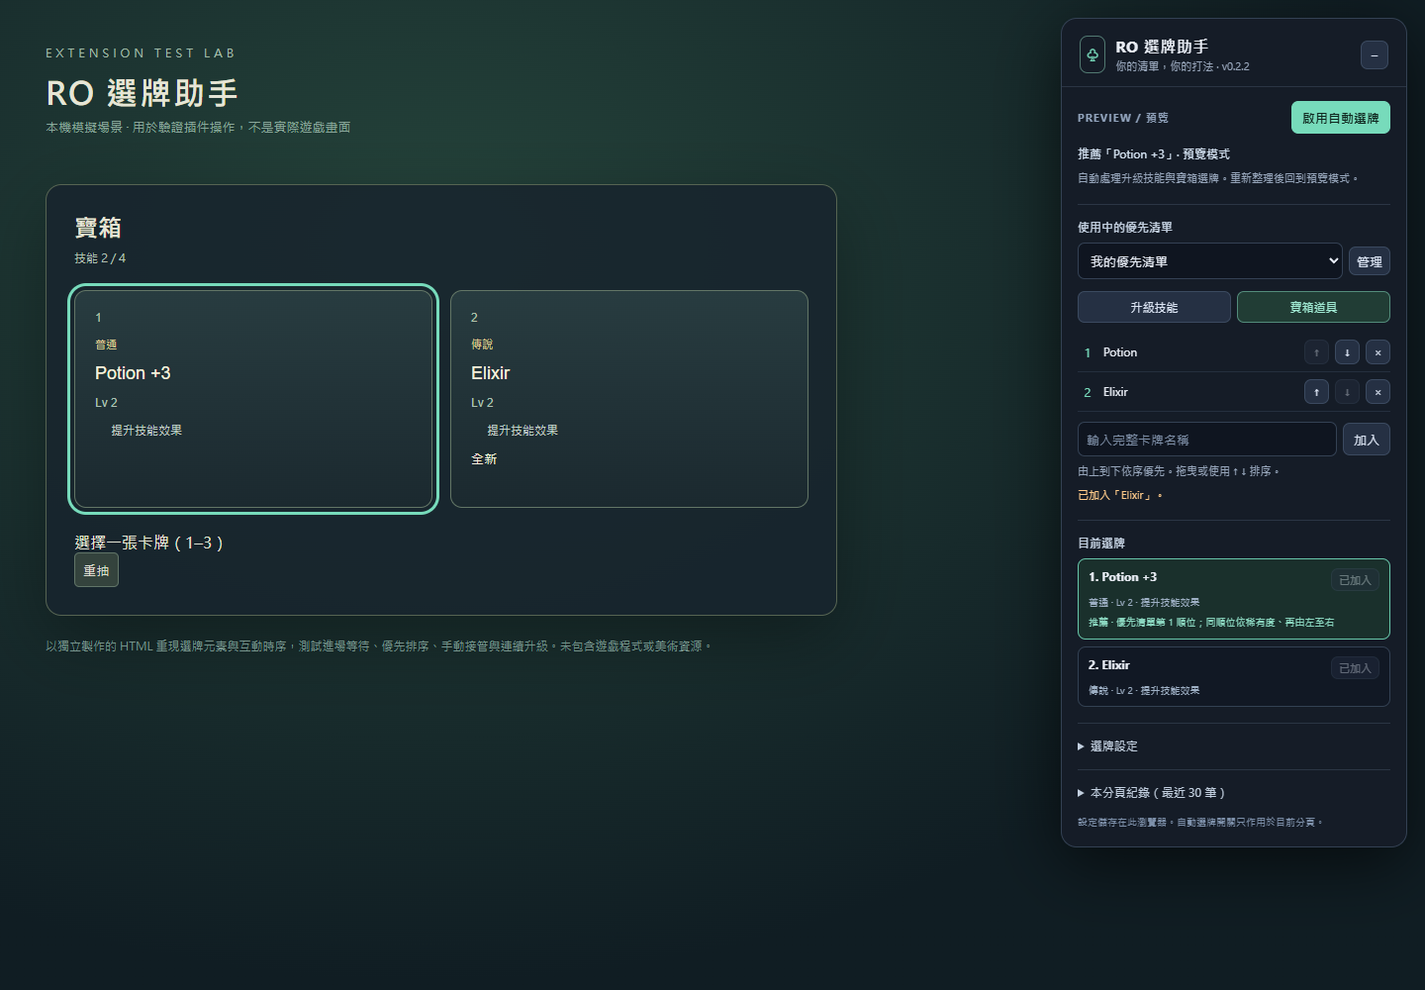
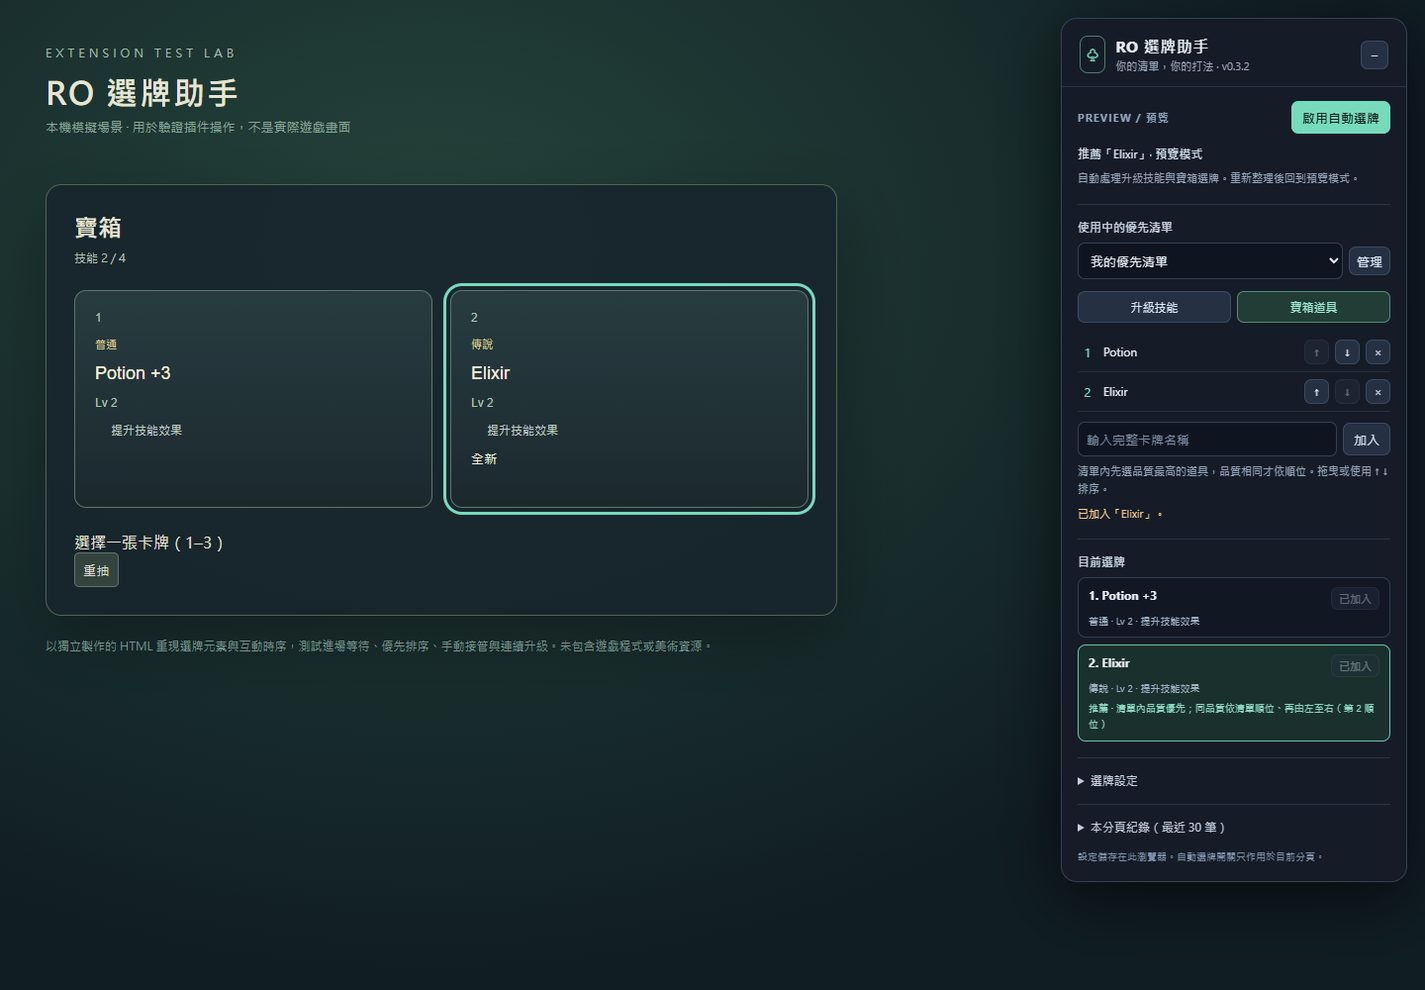
Prefer higher quality among configured chest items

diff --git a/dist/content.js b/dist/content.js
@@ -69,7 +69,7 @@
       const result = decide(candidates.map((c) => c.card), rules.targets, settings.fallback);
       return { ...result, index: result.index === null ? null : candidates[result.index].index };
     }
-    if (snapshot.kind === "chest") return decide(snapshot.cards.map((c) => ({ ...c, name: priorityName(c.name, "chest") })), profile.chestPriorities, settings.chestFallback);
+    if (snapshot.kind === "chest") return decide(snapshot.cards.map((c) => ({ ...c, name: priorityName(c.name, "chest") })), profile.chestPriorities, settings.chestFallback, "rarity");
     return { index: null, reason: "\u50C5\u8655\u7406\u5347\u7D1A\u6280\u80FD\u8207\u5BF6\u7BB1\u9053\u5177\u9078\u724C" };
   }
   function skillRules(settings) {
@@ -96,14 +96,18 @@
     if (rerollEnabled && targets.length > 0 && !matched && usable(snapshot.reroll)) return { kind: "reroll", cardIndex: null, action: snapshot.reroll, description: `\u5168\u90E8\u91CD\u62BD\uFF08\u5269\u9918 ${snapshot.reroll.left} \u6B21\uFF09` };
     return null;
   }
-  function decide(cards, priorities, fallback) {
+  function decide(cards, priorities, fallback, orderBy = "priority") {
     if (!cards.length) return { index: null, reason: "\u7B49\u5F85\u5361\u724C\u8F09\u5165" };
     const order = new Map(priorities.map((name, index) => [normalizeName(name), index]));
     const matched = cards.map((card, index) => ({ index, rank: order.get(normalizeName(card.name)), rarity: card.rarity })).filter((c) => c.rank !== void 0);
     if (matched.length) {
-      matched.sort((a, b) => a.rank - b.rank || (b.rarity ?? -1) - (a.rarity ?? -1) || a.index - b.index);
+      matched.sort((a, b) => {
+        const byPriority = a.rank - b.rank;
+        const byRarity = (b.rarity ?? -1) - (a.rarity ?? -1);
+        return (orderBy === "rarity" ? byRarity || byPriority : byPriority || byRarity) || a.index - b.index;
+      });
       const winner = matched[0];
-      return { index: winner.index, reason: `\u512A\u5148\u6E05\u55AE\u7B2C ${winner.rank + 1} \u9806\u4F4D\uFF1B\u540C\u9806\u4F4D\u4F9D\u7A00\u6709\u5EA6\u3001\u518D\u7531\u5DE6\u81F3\u53F3` };
+      return { index: winner.index, reason: orderBy === "rarity" ? `\u6E05\u55AE\u5167\u54C1\u8CEA\u512A\u5148\uFF1B\u540C\u54C1\u8CEA\u4F9D\u6E05\u55AE\u9806\u4F4D\u3001\u518D\u7531\u5DE6\u81F3\u53F3\uFF08\u7B2C ${winner.rank + 1} \u9806\u4F4D\uFF09` : `\u512A\u5148\u6E05\u55AE\u7B2C ${winner.rank + 1} \u9806\u4F4D\uFF1B\u540C\u9806\u4F4D\u4F9D\u7A00\u6709\u5EA6\u3001\u518D\u7531\u5DE6\u81F3\u53F3` };
     }
     if (fallback === "rarity" && cards.every((c) => c.rarity !== null)) {
       const index = cards.reduce((best, c, i) => c.rarity > cards[best].rarity ? i : best, 0);
@@ -499,7 +503,7 @@
 .panel,.launcher { pointer-events:auto; }</style>
       <button class="launcher" id="launcher" aria-label="\u958B\u555F RO \u9078\u724C\u52A9\u624B">\u2667 \u9078\u724C\u52A9\u624B</button>
       <section class="panel" id="panel" aria-label="RO \u9078\u724C\u52A9\u624B" hidden>
-        <header><span class="logo" aria-hidden="true">\u2667</span><div><strong>RO \u9078\u724C\u52A9\u624B</strong><small>\u4F60\u7684\u6E05\u55AE\uFF0C\u4F60\u7684\u6253\u6CD5 \xB7 v0.3.1</small></div><button class="icon" id="collapse" aria-label="\u6536\u5408\u9762\u677F">\u2212</button></header>
+        <header><span class="logo" aria-hidden="true">\u2667</span><div><strong>RO \u9078\u724C\u52A9\u624B</strong><small>\u4F60\u7684\u6E05\u55AE\uFF0C\u4F60\u7684\u6253\u6CD5 \xB7 v0.3.2</small></div><button class="icon" id="collapse" aria-label="\u6536\u5408\u9762\u677F">\u2212</button></header>
         <div class="body">
           <div class="toolbar"><span class="mode" id="mode">PREVIEW / \u9810\u89BD</span><button id="toggle" class="primary">\u555F\u7528\u81EA\u52D5\u9078\u724C</button></div>
           <p class="status" id="status" role="status" aria-live="polite"></p>
@@ -516,7 +520,7 @@
             <ol id="priorities" aria-label="\u5361\u724C\u512A\u5148\u9806\u5E8F"></ol>
             <div class="empty" id="empty-priorities">\u9084\u6C92\u6709\u512A\u5148\u5361\u724C\u3002\u8F38\u5165\u904A\u6232\u986F\u793A\u7684\u540D\u7A31\uFF0C\u6216\u5F9E\u4E0B\u65B9\u76EE\u524D\u9078\u724C\u52A0\u5165\u3002</div>
             <form id="add-form" class="row"><input id="card-name" placeholder="\u8F38\u5165\u5B8C\u6574\u5361\u724C\u540D\u7A31" maxlength="120" aria-label="\u5361\u724C\u540D\u7A31" autocomplete="off"><button type="submit">\u52A0\u5165</button></form>
-            <div class="note" style="margin-top:6px">\u7531\u4E0A\u5230\u4E0B\u4F9D\u5E8F\u512A\u5148\u3002\u62D6\u66F3\u6216\u4F7F\u7528 \u2191 \u2193 \u6392\u5E8F\u3002</div>
+            <div class="note" id="priority-help" style="margin-top:6px"></div>
             <div class="message" id="message" role="status"></div>
           </div>
           <div class="section"><span class="label">\u76EE\u524D\u9078\u724C</span><div id="current" class="current"><div class="empty">\u5347\u7D1A\u6216\u5BF6\u7BB1\u9078\u724C\u51FA\u73FE\u5F8C\uFF0C\u6703\u5728\u9019\u88E1\u986F\u793A\u3002</div></div></div>
@@ -532,11 +536,11 @@
             <label class="note" for="chest-fallback">\u5BF6\u7BB1\u6E05\u55AE\u6C92\u6709\u547D\u4E2D\u6642</label>
             <select id="chest-fallback"><option value="pause">\u4EA4\u7531\u6211\u624B\u52D5\u9078\u64C7</option><option value="rarity">\u9078\u6700\u9AD8\u7A00\u6709\u5EA6\uFF08\u5FC5\u9808\u5168\u90E8\u8FA8\u8B58\u6210\u529F\uFF09</option></select>
             <label class="checkbox-row"><input id="chest-replace" type="checkbox">\u5BF6\u7BB1\u81EA\u52D5\u78BA\u8A8D\u66FF\u63DB</label>
-            <p class="note">\u4F9D\u5019\u9078\u724C\u9806\u4F4D\u9078\u64C7\uFF1B\u52FE\u9078\u5F8C\u6703\u78BA\u8A8D\u66FF\u63DB\u8A72\u6B04\u4F4D\u539F\u6709\u9053\u5177\u3002\u95DC\u9589\u5F8C\uFF0C\u9700\u66FF\u63DB\u7684\u724C\u4EA4\u7531\u4F60\u8655\u7406\u3002</p>
+            <p class="note">\u6E05\u55AE\u5167\u5019\u9078\u724C\u5148\u6BD4\u54C1\u8CEA\uFF0C\u540C\u54C1\u8CEA\u518D\u6BD4\u9806\u4F4D\uFF1B\u52FE\u9078\u5F8C\u6703\u78BA\u8A8D\u66FF\u63DB\u8A72\u6B04\u4F4D\u539F\u6709\u9053\u5177\u3002\u95DC\u9589\u5F8C\uFF0C\u9700\u66FF\u63DB\u7684\u724C\u4EA4\u7531\u4F60\u8655\u7406\u3002</p>
             <div class="note" style="margin-top:12px">\u6BCF\u8F2A\u96A8\u6A5F\u9078\u724C\u5EF6\u9072\uFF08\u6BEB\u79D2\uFF09</div>
             <div class="row delay-range"><label for="delay-min">\u6700\u77ED<input id="delay-min" type="number" min="500" max="5000" step="100"></label><span>\uFF5E</span><label for="delay-max">\u6700\u9577<input id="delay-max" type="number" min="500" max="5000" step="100"></label></div>
             <p class="note">\u9810\u8A2D 500\uFF5E1500 \u6BEB\u79D2\uFF0C\u6BCF\u8F2A\u91CD\u65B0\u62BD\u53D6\u4E00\u6B21\u3002\u82E5\u904A\u6232\u52D5\u756B\u5C1A\u672A\u7D50\u675F\uFF0C\u6703\u7B49\u5230\u53EF\u64CD\u4F5C\u6642\u624D\u9EDE\u9078\u3002</p>
-            <p class="note">\u4ECD\u6703\u7B49\u5F85\u904A\u6232\u9032\u5834\u52D5\u756B\u3002\u540C\u9806\u4F4D\u5148\u6BD4\u8F03\u7A00\u6709\u5EA6\uFF0C\u518D\u7531\u5DE6\u81F3\u53F3\u3002\u5BF6\u7BB1\u540D\u7A31\u6703\u5FFD\u7565\u7D50\u5C3E\u7684 +1\u3001+2 \u7B49\u5F37\u5316\u6578\u5B57\uFF1B\u5207\u63DB\u8A9E\u8A00\u5F8C\u8ACB\u78BA\u8A8D\u6E05\u55AE\u3002</p>
+            <p class="note">\u6280\u80FD\u5148\u6BD4\u9806\u4F4D\uFF0C\u518D\u6BD4\u7A00\u6709\u5EA6\uFF1B\u5BF6\u7BB1\u6E05\u55AE\u5167\u5148\u6BD4\u54C1\u8CEA\uFF08\u7A00\u6709\u5EA6\uFF09\uFF0C\u518D\u6BD4\u9806\u4F4D\u3002\u7686\u76F8\u540C\u6642\u7531\u5DE6\u81F3\u53F3\u3002\u5BF6\u7BB1\u540D\u7A31\u6703\u5FFD\u7565\u7D50\u5C3E\u7684 +1\u3001+2 \u7B49\u5F37\u5316\u6578\u5B57\uFF1B\u5207\u63DB\u8A9E\u8A00\u5F8C\u8ACB\u78BA\u8A8D\u6E05\u55AE\u3002</p>
           </details>
           <details class="section"><summary>\u672C\u5206\u9801\u7D00\u9304\uFF08\u6700\u8FD1 30 \u7B46\uFF09</summary><div id="logs" class="log"></div><button id="clear-logs">\u6E05\u9664\u7D00\u9304</button></details>
           <footer>\u8A2D\u5B9A\u5132\u5B58\u5728\u6B64\u700F\u89BD\u5668\u3002\u81EA\u52D5\u9078\u724C\u958B\u95DC\u53EA\u4F5C\u7528\u65BC\u76EE\u524D\u5206\u9801\u3002</footer>
@@ -717,6 +721,7 @@
       this.input("delay-min").value = String(this.settings.delayMinMs);
       this.input("delay-max").value = String(this.settings.delayMaxMs);
       for (const kind of ["levelup", "chest"]) this.el(`kind-${kind}`).setAttribute("aria-pressed", String(kind === this.editingKind));
+      this.el("priority-help").textContent = this.editingKind === "chest" ? "\u6E05\u55AE\u5167\u5148\u9078\u54C1\u8CEA\u6700\u9AD8\u7684\u9053\u5177\uFF0C\u54C1\u8CEA\u76F8\u540C\u624D\u4F9D\u9806\u4F4D\u3002\u62D6\u66F3\u6216\u4F7F\u7528 \u2191 \u2193 \u6392\u5E8F\u3002" : "\u7531\u4E0A\u5230\u4E0B\u4F9D\u5E8F\u512A\u5148\u3002\u62D6\u66F3\u6216\u4F7F\u7528 \u2191 \u2193 \u6392\u5E8F\u3002";
       this.el("empty-priorities").textContent = this.editingKind === "chest" ? "\u5C1A\u672A\u8A2D\u5B9A\u5BF6\u7BB1\u9806\u4F4D\u3002\u53EF\u5F9E\u76EE\u524D\u5BF6\u7BB1\u52A0\u5165\uFF0C\u6216\u5728\u9078\u724C\u8A2D\u5B9A\u6539\u7528\u6700\u9AD8\u7A00\u6709\u5EA6\u3002" : "\u9084\u6C92\u6709\u512A\u5148\u6280\u80FD\u3002\u8F38\u5165\u904A\u6232\u986F\u793A\u7684\u540D\u7A31\uFF0C\u6216\u5F9E\u4E0B\u65B9\u76EE\u524D\u9078\u724C\u52A0\u5165\u3002";
       const names = this.names();
       this.el("empty-priorities").hidden = names.length > 0;

diff --git a/src/panel.ts b/src/panel.ts
@@ -27,7 +27,7 @@ export class Panel {
       <style>${styles}\n.panel,.launcher { pointer-events:auto; }</style>
       <button class="launcher" id="launcher" aria-label="開啟 RO 選牌助手">♧ 選牌助手</button>
       <section class="panel" id="panel" aria-label="RO 選牌助手" hidden>
-        <header><span class="logo" aria-hidden="true">♧</span><div><strong>RO 選牌助手</strong><small>你的清單，你的打法 · v0.3.1</small></div><button class="icon" id="collapse" aria-label="收合面板">−</button></header>
+        <header><span class="logo" aria-hidden="true">♧</span><div><strong>RO 選牌助手</strong><small>你的清單，你的打法 · v0.3.2</small></div><button class="icon" id="collapse" aria-label="收合面板">−</button></header>
         <div class="body">
           <div class="toolbar"><span class="mode" id="mode">PREVIEW / 預覽</span><button id="toggle" class="primary">啟用自動選牌</button></div>
           <p class="status" id="status" role="status" aria-live="polite"></p>
@@ -44,7 +44,7 @@ export class Panel {
             <ol id="priorities" aria-label="卡牌優先順序"></ol>
             <div class="empty" id="empty-priorities">還沒有優先卡牌。輸入遊戲顯示的名稱，或從下方目前選牌加入。</div>
             <form id="add-form" class="row"><input id="card-name" placeholder="輸入完整卡牌名稱" maxlength="120" aria-label="卡牌名稱" autocomplete="off"><button type="submit">加入</button></form>
-            <div class="note" style="margin-top:6px">由上到下依序優先。拖曳或使用 ↑ ↓ 排序。</div>
+            <div class="note" id="priority-help" style="margin-top:6px"></div>
             <div class="message" id="message" role="status"></div>
           </div>
           <div class="section"><span class="label">目前選牌</span><div id="current" class="current"><div class="empty">升級或寶箱選牌出現後，會在這裡顯示。</div></div></div>
@@ -60,11 +60,11 @@ export class Panel {
             <label class="note" for="chest-fallback">寶箱清單沒有命中時</label>
             <select id="chest-fallback"><option value="pause">交由我手動選擇</option><option value="rarity">選最高稀有度（必須全部辨識成功）</option></select>
             <label class="checkbox-row"><input id="chest-replace" type="checkbox">寶箱自動確認替換</label>
-            <p class="note">依候選牌順位選擇；勾選後會確認替換該欄位原有道具。關閉後，需替換的牌交由你處理。</p>
+            <p class="note">清單內候選牌先比品質，同品質再比順位；勾選後會確認替換該欄位原有道具。關閉後，需替換的牌交由你處理。</p>
             <div class="note" style="margin-top:12px">每輪隨機選牌延遲（毫秒）</div>
             <div class="row delay-range"><label for="delay-min">最短<input id="delay-min" type="number" min="500" max="5000" step="100"></label><span>～</span><label for="delay-max">最長<input id="delay-max" type="number" min="500" max="5000" step="100"></label></div>
             <p class="note">預設 500～1500 毫秒，每輪重新抽取一次。若遊戲動畫尚未結束，會等到可操作時才點選。</p>
-            <p class="note">仍會等待遊戲進場動畫。同順位先比較稀有度，再由左至右。寶箱名稱會忽略結尾的 +1、+2 等強化數字；切換語言後請確認清單。</p>
+            <p class="note">技能先比順位，再比稀有度；寶箱清單內先比品質（稀有度），再比順位。皆相同時由左至右。寶箱名稱會忽略結尾的 +1、+2 等強化數字；切換語言後請確認清單。</p>
           </details>
           <details class="section"><summary>本分頁紀錄（最近 30 筆）</summary><div id="logs" class="log"></div><button id="clear-logs">清除紀錄</button></details>
           <footer>設定儲存在此瀏覽器。自動選牌開關只作用於目前分頁。</footer>
@@ -171,6 +171,9 @@ export class Panel {
     this.input('delay-min').value = String(this.settings.delayMinMs);
     this.input('delay-max').value = String(this.settings.delayMaxMs);
     for (const kind of ['levelup', 'chest'] as const) this.el(`kind-${kind}`).setAttribute('aria-pressed', String(kind === this.editingKind));
+    this.el('priority-help').textContent = this.editingKind === 'chest'
+      ? '清單內先選品質最高的道具，品質相同才依順位。拖曳或使用 ↑ ↓ 排序。'
+      : '由上到下依序優先。拖曳或使用 ↑ ↓ 排序。';
     this.el('empty-priorities').textContent = this.editingKind === 'chest' ? '尚未設定寶箱順位。可從目前寶箱加入，或在選牌設定改用最高稀有度。' : '還沒有優先技能。輸入遊戲顯示的名稱，或從下方目前選牌加入。';
     const names = this.names();
     this.el('empty-priorities').hidden = names.length > 0;

diff --git a/src/core.ts b/src/core.ts
@@ -58,7 +58,7 @@ export function decideSnapshot(snapshot: Pick<Snapshot, 'kind'> & { cards: Pick<
     const result = decide(candidates.map(c => c.card), rules.targets, settings.fallback);
     return { ...result, index: result.index === null ? null : candidates[result.index].index };
   }
-  if (snapshot.kind === 'chest') return decide(snapshot.cards.map(c => ({ ...c, name: priorityName(c.name, 'chest') })), profile.chestPriorities, settings.chestFallback);
+  if (snapshot.kind === 'chest') return decide(snapshot.cards.map(c => ({ ...c, name: priorityName(c.name, 'chest') })), profile.chestPriorities, settings.chestFallback, 'rarity');
   return { index: null, reason: '僅處理升級技能與寶箱道具選牌' };
 }
 export function skillRules(settings: Settings): { focus: string | null; banishAfterLearning: string[]; targets: string[] } {
@@ -87,15 +87,21 @@ export function planPerk(snapshot: Pick<Snapshot, 'kind' | 'cards' | 'reroll'>, 
   if (rerollEnabled && targets.length > 0 && !matched && usable(snapshot.reroll)) return { kind: 'reroll', cardIndex: null, action: snapshot.reroll!, description: `全部重抽（剩餘 ${snapshot.reroll!.left} 次）` };
   return null;
 }
-export function decide(cards: Pick<Card, 'name' | 'rarity'>[], priorities: string[], fallback: Settings['fallback']): Decision {
+export function decide(cards: Pick<Card, 'name' | 'rarity'>[], priorities: string[], fallback: Settings['fallback'], orderBy: 'priority' | 'rarity' = 'priority'): Decision {
   if (!cards.length) return { index: null, reason: '等待卡牌載入' };
   const order = new Map(priorities.map((name, index) => [normalizeName(name), index]));
   const matched = cards.map((card, index) => ({ index, rank: order.get(normalizeName(card.name)), rarity: card.rarity }))
     .filter((c): c is typeof c & { rank: number } => c.rank !== undefined);
   if (matched.length) {
-    matched.sort((a, b) => a.rank - b.rank || (b.rarity ?? -1) - (a.rarity ?? -1) || a.index - b.index);
+    matched.sort((a, b) => {
+      const byPriority = a.rank - b.rank;
+      const byRarity = (b.rarity ?? -1) - (a.rarity ?? -1);
+      return (orderBy === 'rarity' ? byRarity || byPriority : byPriority || byRarity) || a.index - b.index;
+    });
     const winner = matched[0];
-    return { index: winner.index, reason: `優先清單第 ${winner.rank + 1} 順位；同順位依稀有度、再由左至右` };
+    return { index: winner.index, reason: orderBy === 'rarity'
+      ? `清單內品質優先；同品質依清單順位、再由左至右（第 ${winner.rank + 1} 順位）`
+      : `優先清單第 ${winner.rank + 1} 順位；同順位依稀有度、再由左至右` };
   }
   if (fallback === 'rarity' && cards.every(c => c.rarity !== null)) {
     const index = cards.reduce((best, c, i) => c.rarity! > cards[best].rarity! ? i : best, 0);

diff --git a/tests/extension.spec.ts b/tests/extension.spec.ts
@@ -293,7 +293,7 @@ test('chest has separate priorities, captures base names, and evaluates new item
   await page.getByRole('button', { name: '加入 Elixir 到清單' }).click();
   await page.screenshot({ path: info.outputPath('chest-preview.png') });
   await enable(page);
-  await expect.poll(async () => (await selections(page))[0]?.name).toBe('Potion +3');
+  await expect.poll(async () => (await selections(page))[0]?.name).toBe('Elixir');
   await expect(page.locator('#picker')).toHaveClass(/hidden/);
   await round(page, { title: '寶箱', gain: false, cards: [{ name: 'Potion', badge: '傳說', fresh: true }, { name: 'Potion +4', badge: '普通' }] });
   await expect.poll(async () => (await selections(page))[1]?.name).toBe('Potion');
@@ -304,6 +304,25 @@ test('chest has separate priorities, captures base names, and evaluates new item
   await expect(page.locator('#priorities .name')).toHaveText(['Fire Bolt']);
   await page.getByRole('button', { name: '寶箱道具', exact: true }).click();
   await expect(page.locator('#priorities .name')).toHaveText(['Potion', 'Elixir']);
+});
+
+test('chest picks the best listed quality, confirms that item, and breaks quality ties by list order', async ({ page }) => {
+  await page.getByRole('button', { name: '寶箱道具', exact: true }).click();
+  await add(page, 'Potion'); await add(page, 'Elixir');
+  await expect(page.locator('#priority-help')).toContainText('品質相同才依順位');
+  await round(page, { title: '寶箱', gain: false,
+    cards: [{ name: 'Outside', badge: '神話', confirm: true }, { name: 'Potion +9', badge: '普通', confirm: true }, { name: 'Elixir', badge: '傳說', fresh: true, confirm: true }],
+    perks: { reroll: 2 } });
+  await expect(page.locator('.pk-card[data-ro-recommended="true"] .pk-name')).toHaveText('Elixir');
+  await expect(page.locator('#current .reason')).toContainText('清單內品質優先');
+  await enable(page);
+  await expect.poll(async () => (await selections(page))[0]?.name).toBe('Elixir');
+  expect(await page.evaluate(() => (window as any).confirmAttempts)).toEqual([2]);
+  expect(await perks(page)).toEqual([]);
+  await expect(page.locator('#picker')).toHaveClass(/hidden/);
+  await round(page, { title: '寶箱', gain: false,
+    cards: [{ name: 'Elixir +8', badge: '傳說' }, { name: 'Potion +1', badge: '傳說' }] });
+  await expect.poll(async () => (await selections(page))[1]?.name).toBe('Potion +1');
 });
 
 test('chest confirms only the selected item once, including repeated identical rounds', async ({ page }) => {

diff --git a/tests/core.test.ts b/tests/core.test.ts
@@ -183,3 +183,40 @@ test('chest matching ignores only trailing refinement and uses its own priority/
   assert.equal(decideSnapshot({ kind: 'chest', cards }, settings).index, 0);
   assert.deepEqual(sanitizeSettings({ profiles: [{ id: 'x', chestPriorities: ['A +1', 'A +3'] }] }).profiles[0].chestPriorities, ['A']);
 });
+
+test('chest quality outranks order only among listed items while skill priority stays first', () => {
+  const settings = defaults();
+  settings.profiles[0].priorities = ['A', 'B']; settings.profiles[0].chestPriorities = ['A', 'B'];
+  const cards = [
+    { ...perkCard('Outside'), rarity: 5 },
+    { ...perkCard('A'), rarity: 0 },
+    { ...perkCard('B'), rarity: 4 },
+  ];
+  for (const fallback of ['pause', 'rarity'] as const) {
+    settings.chestFallback = fallback;
+    const chest = decideSnapshot({ kind: 'chest', cards }, settings);
+    assert.equal(chest.index, 2);
+    assert.match(chest.reason, /清單內品質優先/);
+    assert.equal(decideSnapshot({ kind: 'levelup', cards }, settings).index, 1);
+  }
+});
+
+test('equal chest quality uses list order then visual order and ignores refinement levels', () => {
+  const settings = defaults(); settings.profiles[0].chestPriorities = ['A', 'B'];
+  const cards = ['B +9', 'A +1', 'A +8'].map(name => ({ ...perkCard(name), rarity: 3 }));
+  assert.equal(decideSnapshot({ kind: 'chest', cards }, settings).index, 1);
+  settings.profiles[0].chestPriorities.reverse();
+  assert.equal(decideSnapshot({ kind: 'chest', cards }, settings).index, 0);
+  cards[2].rarity = 4;
+  assert.equal(decideSnapshot({ kind: 'chest', cards }, settings).index, 2);
+});
+
+test('listed chest items with unknown quality rank below known quality and otherwise use list order', () => {
+  const settings = defaults(); settings.profiles[0].chestPriorities = ['A', 'B'];
+  const cards = [{ ...perkCard('B'), rarity: 0 as number | null }, { ...perkCard('A'), rarity: null }];
+  assert.equal(decideSnapshot({ kind: 'chest', cards }, settings).index, 0);
+  cards[0].rarity = null;
+  assert.equal(decideSnapshot({ kind: 'chest', cards }, settings).index, 1);
+  settings.profiles[0].chestPriorities = ['Missing']; settings.chestFallback = 'rarity';
+  assert.equal(decideSnapshot({ kind: 'chest', cards }, settings).index, null);
+});

diff --git a/dist/popup.html b/dist/popup.html
@@ -1,3 +1,3 @@
 <!doctype html>
 <html lang="zh-Hant"><head><meta charset="utf-8"><meta name="viewport" content="width=device-width, initial-scale=1"><title>RO 選牌助手</title><link rel="stylesheet" href="popup.css"></head>
-<body><div class="eyebrow">RO SURVIVORS</div><h1>選牌助手 <span>0.3.1</span></h1><p id="status" role="status">正在確認遊戲分頁…</p><button id="show">開啟遊戲內控制面板</button><button id="pause" class="secondary" hidden>暫停這個分頁的自動選牌</button><a href="https://ro-survivors.com/" target="_blank" rel="noopener">開啟 RO Survivors ↗</a><small>技能支援專注與取得後放逐；技能、寶箱皆可全部重抽。<br>更新插件後，請重新載入插件並重新整理遊戲。</small><script src="popup.js"></script></body></html>
+<body><div class="eyebrow">RO SURVIVORS</div><h1>選牌助手 <span>0.3.2</span></h1><p id="status" role="status">正在確認遊戲分頁…</p><button id="show">開啟遊戲內控制面板</button><button id="pause" class="secondary" hidden>暫停這個分頁的自動選牌</button><a href="https://ro-survivors.com/" target="_blank" rel="noopener">開啟 RO Survivors ↗</a><small>技能支援專注與取得後放逐；寶箱清單內品質優先。<br>更新插件後，請重新載入插件並重新整理遊戲。</small><script src="popup.js"></script></body></html>

diff --git a/extension/popup.html b/extension/popup.html
@@ -1,3 +1,3 @@
 <!doctype html>
 <html lang="zh-Hant"><head><meta charset="utf-8"><meta name="viewport" content="width=device-width, initial-scale=1"><title>RO 選牌助手</title><link rel="stylesheet" href="popup.css"></head>
-<body><div class="eyebrow">RO SURVIVORS</div><h1>選牌助手 <span>0.3.1</span></h1><p id="status" role="status">正在確認遊戲分頁…</p><button id="show">開啟遊戲內控制面板</button><button id="pause" class="secondary" hidden>暫停這個分頁的自動選牌</button><a href="https://ro-survivors.com/" target="_blank" rel="noopener">開啟 RO Survivors ↗</a><small>技能支援專注與取得後放逐；技能、寶箱皆可全部重抽。<br>更新插件後，請重新載入插件並重新整理遊戲。</small><script src="popup.js"></script></body></html>
+<body><div class="eyebrow">RO SURVIVORS</div><h1>選牌助手 <span>0.3.2</span></h1><p id="status" role="status">正在確認遊戲分頁…</p><button id="show">開啟遊戲內控制面板</button><button id="pause" class="secondary" hidden>暫停這個分頁的自動選牌</button><a href="https://ro-survivors.com/" target="_blank" rel="noopener">開啟 RO Survivors ↗</a><small>技能支援專注與取得後放逐；寶箱清單內品質優先。<br>更新插件後，請重新載入插件並重新整理遊戲。</small><script src="popup.js"></script></body></html>
